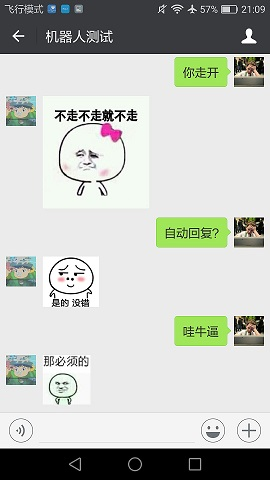
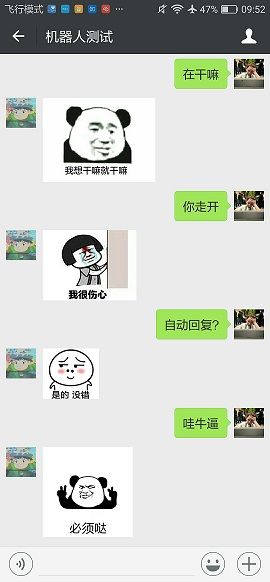
optimize robot and doutula search

diff --git a/src/main/java/com/github/nnkwrik/doutuBot/handle/MessageHandler.java b/src/main/java/com/github/nnkwrik/doutuBot/handle/MessageHandler.java
@@ -37,8 +37,10 @@ public class MessageHandler extends WeChatBot {
         switch (robotType) {
             case TULING:
                 robot = new TulingRobot(env);
+                break;
             case MOLI:
                 robot = new MoliRobot(env);
+                break;
         }
 
     }
@@ -56,12 +58,15 @@ public class MessageHandler extends WeChatBot {
             return;
         }
         String responseText = robot.getResult(message.getText());
-        //进行中文分词处理
-        String keyword = HanLP.extractKeyword(responseText, 1).get(0);
-        log.info("从" + robot.getRobType() + "的响应：'{}'中提取到关键字:【{}】 ", responseText, keyword);
-        String dirPath = doutulaAPI.getEmoByKeyword(keyword);
+        String keywords = "";
+        for (String str : HanLP.extractKeyword(responseText, 3)) {
+            keywords += str + "+";
+        }
+        keywords = keywords.substring(0, keywords.length() - 1);
+        log.info("从" + robot.getRobType() + "的响应：\"{}\"中提取到关键字:【{}】 ", responseText, keywords);
+        String dirPath = doutulaAPI.getEmoByKeyword(keywords);
         emoAPI.sendEmo(message.getFromUserName(), dirPath);
-        log.info("自动回复好友 [{}] 斗图啦表情: {}", message.getName(), dirPath);
+        log.info("根据关键字【{}】搜索表情,自动回复好友 [{}] ", keywords, message.getName());
     }
 
 
@@ -92,7 +97,7 @@ public class MessageHandler extends WeChatBot {
         if (StringUtils.isEmpty(message.getFromUserName())) {
             return;
         }
-        log.info("好友 [{}] 发来的视频或语音，无法处理该类型");
+        log.info("好友 [{}] 发来的视频或语音，无法处理该类型",message.getName());
         emoAPI.sendDefaultEmo(message.getFromUserName());
         log.info("自动回复好友 [{}] 默认表情", message.getName());
 

diff --git a/src/test/java/com/github/nnkwrik/doutuBot/TestJava.java b/src/test/java/com/github/nnkwrik/doutuBot/TestJava.java
@@ -13,7 +13,7 @@ public class TestJava {
      * 获取无后缀文件的文件类型
      */
     @Test
-    public void testContentType(){
+    public void testContentType() {
         Path path = Paths.get("/home/user/code/wechat-robot4doutu/assets/images/2018/04/23/3659716335796410254null");
         String type = null;
         try {
@@ -23,15 +23,22 @@ public class TestJava {
         }
 
         String[] str = type.split("/");
-        System.out.println("type is " + str[str.length-1]);
+        System.out.println("type is " + str[str.length - 1]);
 
     }
 
     @Test
-    public void testSubString(){
+    public void testSubString() {
         String str = "http://emoji.qpic.cn/wx_emoji/bCypfSTlfOuzoB9jFrRBf5scjLOmTEfgcSxHerJCTg01l0YibjyIUUA/";
-        System.out.println( str.substring(str.lastIndexOf("/")));
+        System.out.println(str.substring(str.lastIndexOf("/")));
 
+    }
+
+    @Test
+    public void testReplase() {
+        String responseText = "您好，我是[cqname]，有什么可以帮您的吗？";
+        responseText = responseText.replaceAll("\\[cqname\\]", "我");
+        System.out.println(responseText);
     }
 
 

diff --git a/src/test/java/com/github/nnkwrik/doutuBot/LP/TestHanLP.java b/src/test/java/com/github/nnkwrik/doutuBot/LP/TestHanLP.java
@@ -13,12 +13,29 @@ public class TestHanLP {
 
         String content = "看小主人笑的这么开心，我的心里也花儿一样美丽呢！能让小主人快乐就是我最大的快乐。";
 
-        System.out.println( HanLP.extractKeyword(content, 1));
+        System.out.println( HanLP.extractKeyword(content, 3));
         content = content.replaceAll("小主人","你");
         System.out.println(content);
+        System.out.println( HanLP.extractKeyword(content, 3));
+
+
+    }
+
+    @Test
+    public void testLSize(){
+        // String content ="我在陪你聊天啊小主人。".replaceAll("小主人","你");
+        String content = "我还不饿，吃不下饭";
         System.out.println( HanLP.extractKeyword(content, 1));
+        System.out.println( HanLP.extractKeyword(content, 2));
+        System.out.println( HanLP.extractKeyword(content, 3));
+        String keywords="";
 
+        for (String str : HanLP.extractKeyword(content, 3) ) {
+            keywords +=str + "+";
+        }
+        keywords = keywords.substring(0,keywords.length()-1);
 
+        System.out.println(keywords);
     }
 
     @Test

diff --git a/src/main/java/com/github/nnkwrik/doutuBot/robot/MoliRobot.java b/src/main/java/com/github/nnkwrik/doutuBot/robot/MoliRobot.java
@@ -31,7 +31,13 @@ public class MoliRobot extends Robot {
         Request request = new Request.Builder().url(url).build();
         try {
             Response response = okHttpClient.newCall(request).execute();
-            return response.body().string();
+            String responseText = response.body().string();
+
+            //没有设置Moli的api_key时,称呼会被代码代替,如 "[name]你好，我在发呆呢！"
+            responseText = responseText.replaceAll("\\[cqname\\]", "我");
+            responseText = responseText.replaceAll("\\[name\\]", "你");
+            responseText = responseText.replaceAll("\\[sex\\]", "女");
+            return responseText;
         } catch (IOException e) {
             e.printStackTrace();
         }

diff --git a/src/main/java/com/github/nnkwrik/doutuBot/emotion/DoutulaAPI.java b/src/main/java/com/github/nnkwrik/doutuBot/emotion/DoutulaAPI.java
@@ -36,7 +36,8 @@ public class DoutulaAPI {
             List<EmoInfo> infoList = resultJson.getData().getList();
             String emoUrl;
             while (true) {
-                emoUrl = infoList.get(WeChatUtils.random(0, infoList.size() - 1)).getImage_url();
+                //靠前的比较准?
+                emoUrl = infoList.get(WeChatUtils.random(0, 10)).getImage_url();
                 if (emoUrl.startsWith("https:")) {
                     break;
                 }

diff --git a/src/main/java/com/github/nnkwrik/doutuBot/Main.java b/src/main/java/com/github/nnkwrik/doutuBot/Main.java
@@ -13,7 +13,7 @@ public class Main {
     public static void main(String[] args) {
         if(FileUtil.clearAllMultiFile()){
             Config config = Config.me().autoLogin(true).showTerminal(true);
-            new MessageHandler(config ,RobotType.TULING).start();
+            new MessageHandler(config ,RobotType.MOLI).start();
         }
     }
 }

diff --git a/src/test/java/com/github/nnkwrik/doutuBot/TestUtil.java b/src/test/java/com/github/nnkwrik/doutuBot/TestUtil.java
@@ -18,7 +18,7 @@ public class TestUtil {
     }
 
     /**
-     * clear all multiFile in assets
+     * 清除项目本地的所有多媒体文件
      */
     @Test
     public void testClearAsset(){

diff --git a/README.md b/README.md
@@ -19,5 +19,5 @@
 ### 还可以这样！
 ![](doc/console.png)
 
-
+目前来看,搜索到合适表情的概率较低.
 
